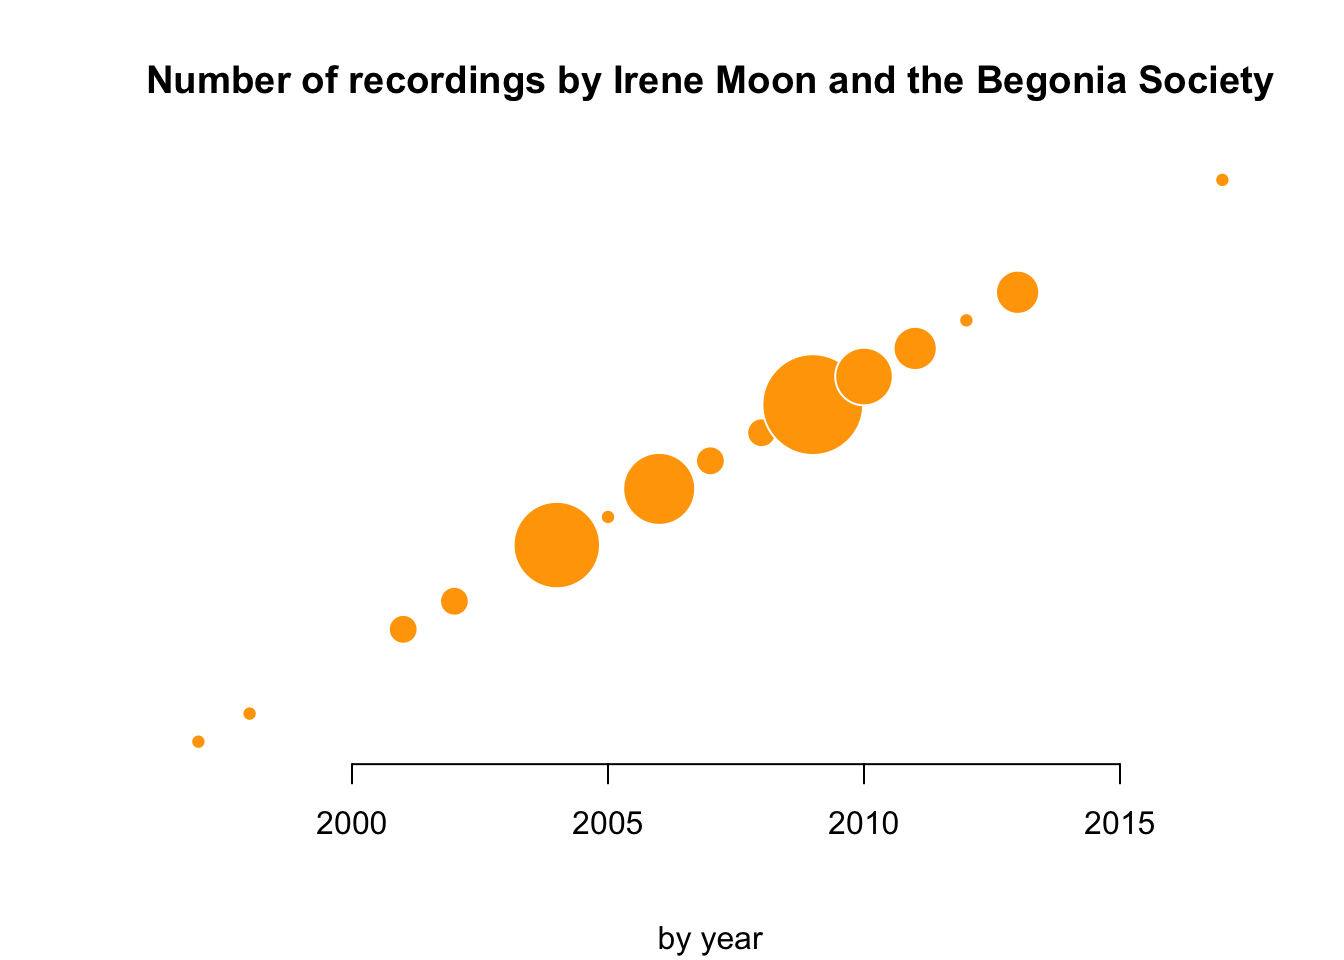
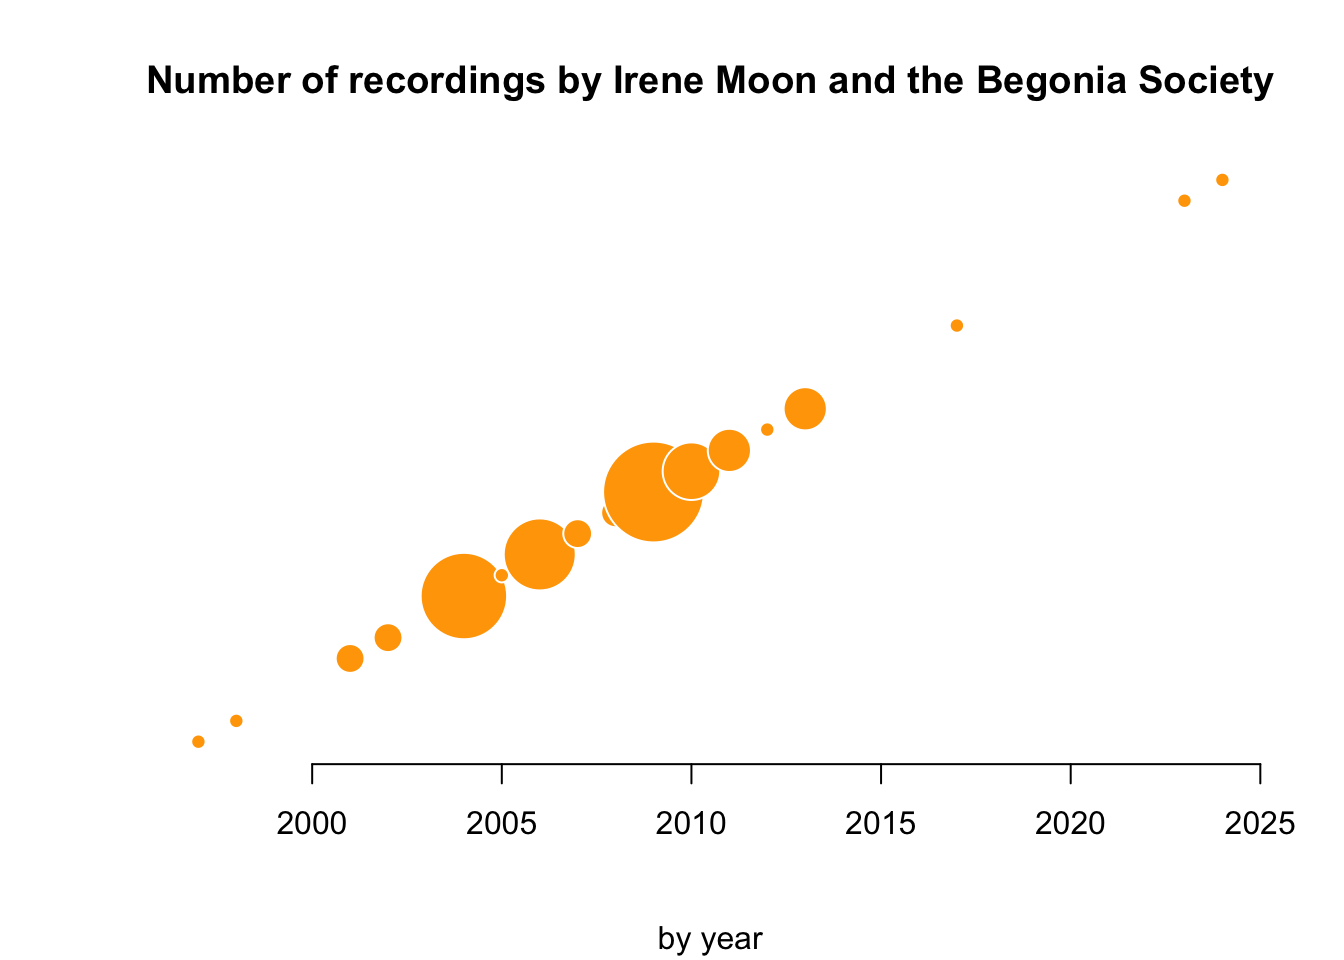
update music graph

diff --git a/music.html b/music.html
@@ -587,7 +587,7 @@ Delirious People comp</td>
 <tr class="odd">
 <td align="left">Lets Talk Science</td>
 <td align="right">2012</td>
-<td align="left">radio</td>
+<td align="left">Radio</td>
 <td align="left"></td>
 <td align="left">Begonia Society</td>
 </tr>
@@ -619,6 +619,20 @@ comp</td>
 <td align="right">2017</td>
 <td align="left">CD</td>
 <td align="left">comp</td>
+<td align="left">WFMU</td>
+</tr>
+<tr class="even">
+<td align="left">Macrotheater</td>
+<td align="right">2023</td>
+<td align="left">Online</td>
+<td align="left">video</td>
+<td align="left">A 5-Minute Hour</td>
+</tr>
+<tr class="odd">
+<td align="left">Antenna Alley</td>
+<td align="right">2024</td>
+<td align="left">Radio</td>
+<td align="left">radio</td>
 <td align="left">WFMU</td>
 </tr>
 </tbody>
